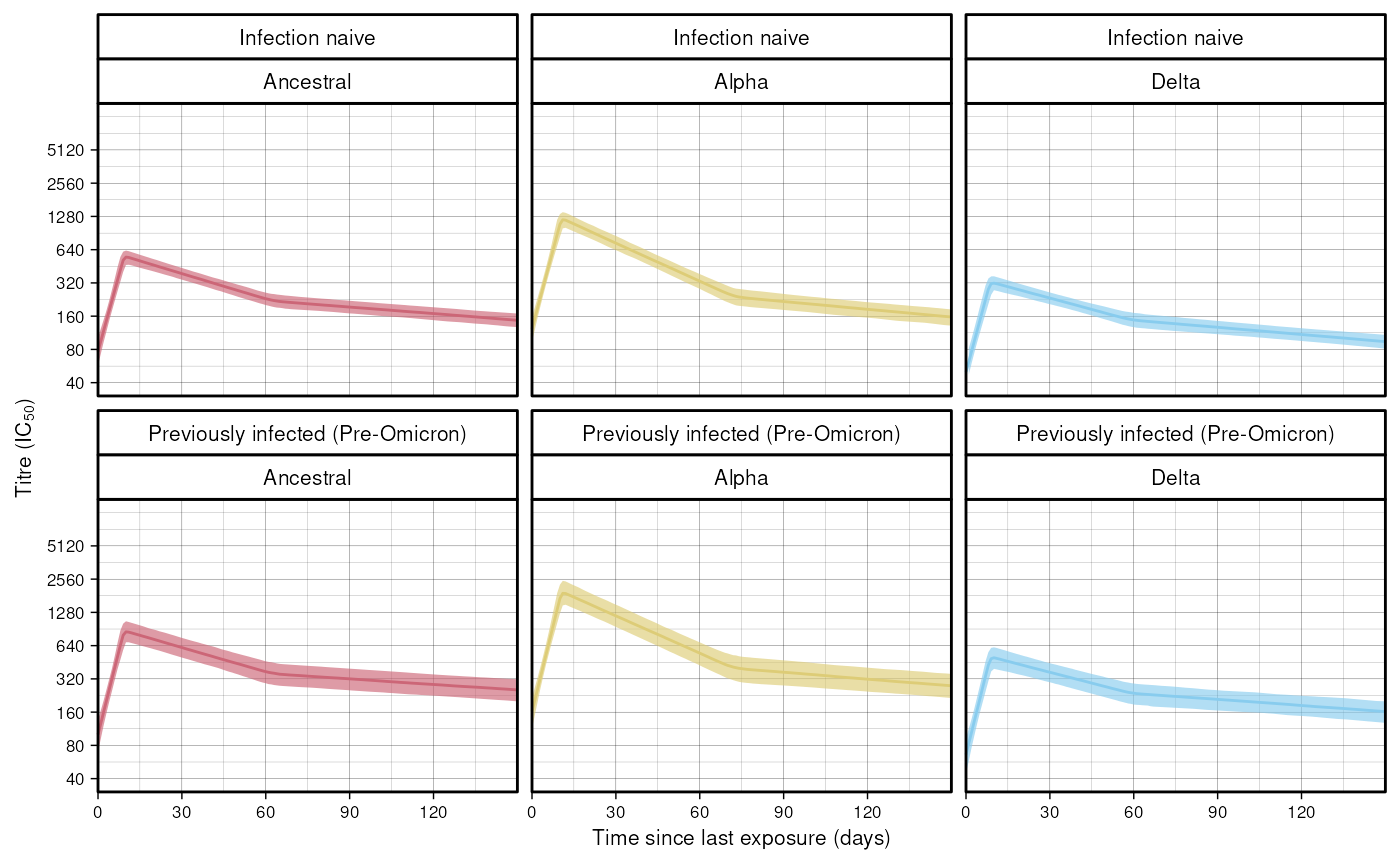
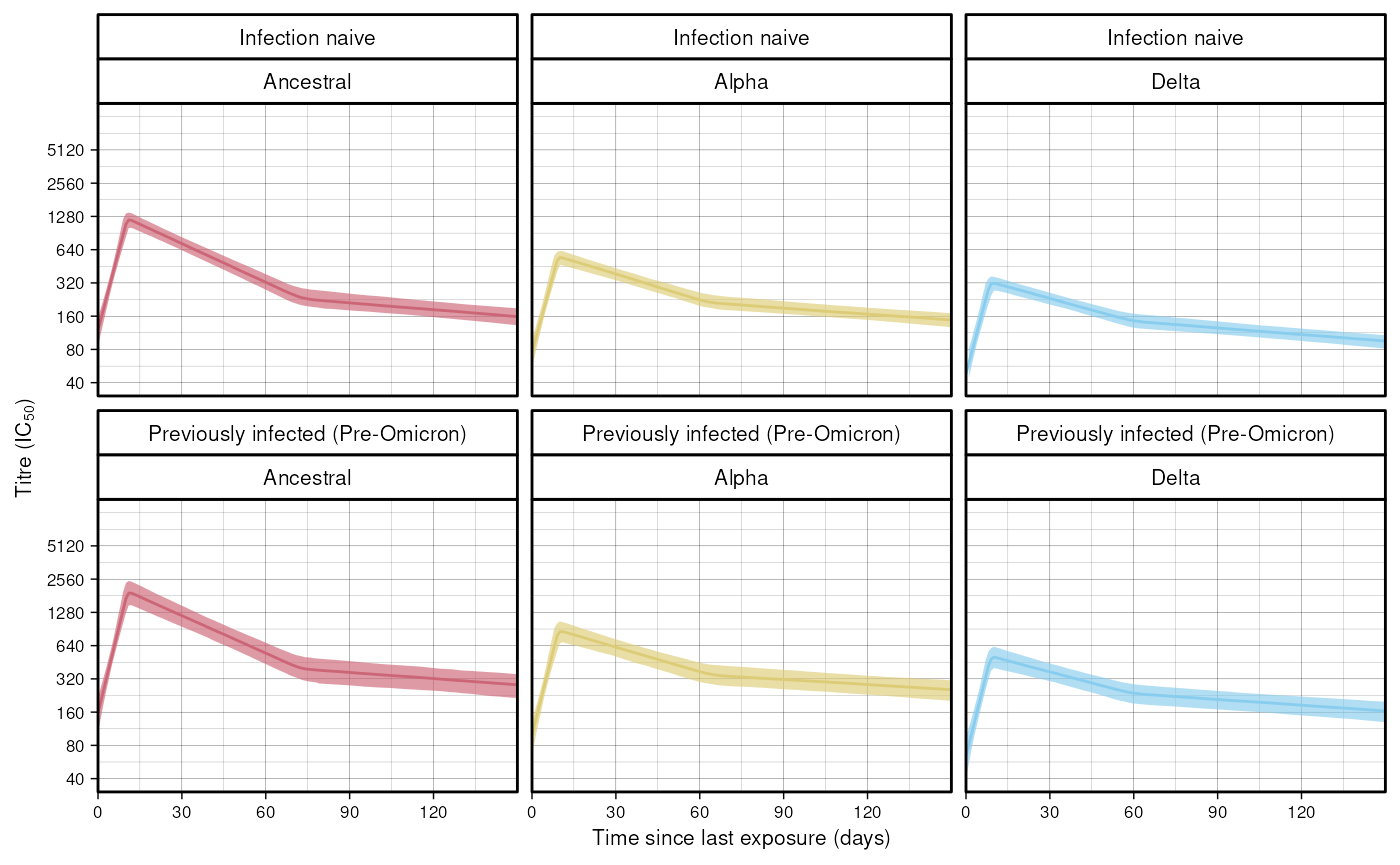
Deploying to gh-pages from @ seroanalytics/epikinetics@bc4da258da2fa9d151d6708000bc5576f71389e1 🚀

Changed region(s): [[0.0614, 0.6555, 0.6757, 0.8428], [0.0614, 0.2497, 0.6757, 0.4058]]

diff --git a/articles/biokinetics.html b/articles/biokinetics.html
@@ -123,12 +123,12 @@ population trajectories using the fitted population parameters.</p>
 <span><span class="fu"><a href="https://rdrr.io/r/utils/head.html" class="external-link">head</a></span><span class="op">(</span><span class="va">res</span><span class="op">)</span></span>
 <span><span class="co">#&gt;    time_since_last_exp       me        lo       hi titre_type infection_history</span></span>
 <span><span class="co">#&gt;                  &lt;int&gt;    &lt;num&gt;     &lt;num&gt;    &lt;num&gt;     &lt;char&gt;            &lt;char&gt;</span></span>
-<span><span class="co">#&gt; 1:                   0 122.4521  94.33718 159.6148      Alpha   Infection naive</span></span>
-<span><span class="co">#&gt; 2:                   1 153.0463 120.28414 192.0631      Alpha   Infection naive</span></span>
-<span><span class="co">#&gt; 3:                   2 190.3371 154.97114 235.0330      Alpha   Infection naive</span></span>
-<span><span class="co">#&gt; 4:                   3 236.9884 195.79415 286.8267      Alpha   Infection naive</span></span>
-<span><span class="co">#&gt; 5:                   4 294.8035 246.31186 355.2880      Alpha   Infection naive</span></span>
-<span><span class="co">#&gt; 6:                   5 367.0770 307.58535 442.0933      Alpha   Infection naive</span></span></code></pre></div>
+<span><span class="co">#&gt; 1:                   0 120.2530  85.15613 154.0472  Ancestral   Infection naive</span></span>
+<span><span class="co">#&gt; 2:                   1 149.3001 110.73969 187.5559  Ancestral   Infection naive</span></span>
+<span><span class="co">#&gt; 3:                   2 186.2505 142.92775 228.2648  Ancestral   Infection naive</span></span>
+<span><span class="co">#&gt; 4:                   3 233.1541 183.01946 279.9274  Ancestral   Infection naive</span></span>
+<span><span class="co">#&gt; 5:                   4 291.1429 236.52809 348.3158  Ancestral   Infection naive</span></span>
+<span><span class="co">#&gt; 6:                   5 363.2659 300.31515 433.2755  Ancestral   Infection naive</span></span></code></pre></div>
 <p>See <a href="data.html">data</a> for the definition of the returned
 columns.</p>
 <p>Using <code>ggplot2</code>:</p>
@@ -191,12 +191,12 @@ simulate estimates for these from the fitted model:</p>
 <span><span class="fu"><a href="https://rdrr.io/r/utils/head.html" class="external-link">head</a></span><span class="op">(</span><span class="va">res</span><span class="op">)</span></span>
 <span><span class="co">#&gt;    infection_history titre_type     mu_p     mu_s rel_drop_me  mu_p_me  mu_s_me</span></span>
 <span><span class="co">#&gt;               &lt;char&gt;     &lt;char&gt;    &lt;num&gt;    &lt;num&gt;       &lt;num&gt;    &lt;num&gt;    &lt;num&gt;</span></span>
-<span><span class="co">#&gt; 1:   Infection naive      Alpha 1258.690 258.2081   0.1948519 1231.681 238.9652</span></span>
-<span><span class="co">#&gt; 2:   Infection naive      Alpha 1345.815 258.1007   0.1948519 1231.681 238.9652</span></span>
-<span><span class="co">#&gt; 3:   Infection naive      Alpha 1208.841 277.9311   0.1948519 1231.681 238.9652</span></span>
-<span><span class="co">#&gt; 4:   Infection naive      Alpha 1160.909 244.2667   0.1948519 1231.681 238.9652</span></span>
-<span><span class="co">#&gt; 5:   Infection naive      Alpha 1219.513 244.6807   0.1948519 1231.681 238.9652</span></span>
-<span><span class="co">#&gt; 6:   Infection naive      Alpha 1115.654 276.2072   0.1948519 1231.681 238.9652</span></span></code></pre></div>
+<span><span class="co">#&gt; 1:   Infection naive  Ancestral 1242.783 273.2506    0.189827 1227.795 229.0288</span></span>
+<span><span class="co">#&gt; 2:   Infection naive  Ancestral 1227.432 249.1784    0.189827 1227.795 229.0288</span></span>
+<span><span class="co">#&gt; 3:   Infection naive  Ancestral 1156.975 258.2754    0.189827 1227.795 229.0288</span></span>
+<span><span class="co">#&gt; 4:   Infection naive  Ancestral 1133.219 253.3188    0.189827 1227.795 229.0288</span></span>
+<span><span class="co">#&gt; 5:   Infection naive  Ancestral 1150.578 240.4378    0.189827 1227.795 229.0288</span></span>
+<span><span class="co">#&gt; 6:   Infection naive  Ancestral 1214.544 244.0054    0.189827 1227.795 229.0288</span></span></code></pre></div>
 <p>The values we’re going to plot are the mean peak titre values
 (<code>mu_p</code>) and mean set point titre values (<code>mu_s</code>),
 for different titre types and infection histories. See <a href="data.html">data</a> for a full definition of all the returned
@@ -259,12 +259,12 @@ maximum number of draws to just 250 for speed.</p>
 <span><span class="fu"><a href="https://rdrr.io/r/utils/head.html" class="external-link">head</a></span><span class="op">(</span><span class="va">res</span><span class="op">)</span></span>
 <span><span class="co">#&gt;    calendar_day titre_type       me       lo       hi time_shift</span></span>
 <span><span class="co">#&gt;          &lt;IDat&gt;     &lt;char&gt;    &lt;num&gt;    &lt;num&gt;    &lt;num&gt;      &lt;num&gt;</span></span>
-<span><span class="co">#&gt; 1:   2021-03-08      Alpha 1159.083 882.2681 1626.342          0</span></span>
-<span><span class="co">#&gt; 2:   2021-03-09      Alpha 1149.733 904.7969 1455.563          0</span></span>
-<span><span class="co">#&gt; 3:   2021-03-10      Alpha 1183.414 923.2380 1553.093          0</span></span>
-<span><span class="co">#&gt; 4:   2021-03-11      Alpha 1159.733 918.8463 1537.259          0</span></span>
-<span><span class="co">#&gt; 5:   2021-03-12      Alpha 1152.698 901.3702 1592.818          0</span></span>
-<span><span class="co">#&gt; 6:   2021-03-13      Alpha 1194.493 912.0854 1596.470          0</span></span></code></pre></div>
+<span><span class="co">#&gt; 1:   2021-03-08  Ancestral 1139.289 850.1878 1530.986          0</span></span>
+<span><span class="co">#&gt; 2:   2021-03-09  Ancestral 1131.811 887.2028 1522.606          0</span></span>
+<span><span class="co">#&gt; 3:   2021-03-10  Ancestral 1170.492 891.3162 1533.867          0</span></span>
+<span><span class="co">#&gt; 4:   2021-03-11  Ancestral 1134.420 904.7027 1453.014          0</span></span>
+<span><span class="co">#&gt; 5:   2021-03-12  Ancestral 1151.549 873.5584 1494.535          0</span></span>
+<span><span class="co">#&gt; 6:   2021-03-13  Ancestral 1190.612 909.6962 1536.645          0</span></span></code></pre></div>
 <p>See <a href="data.html">data</a> for a definition of all the returned
 columns. Figure 5 A plots the derived population trajectories. Here we
 replicate a portion of the graph from the paper, from the minimum date
